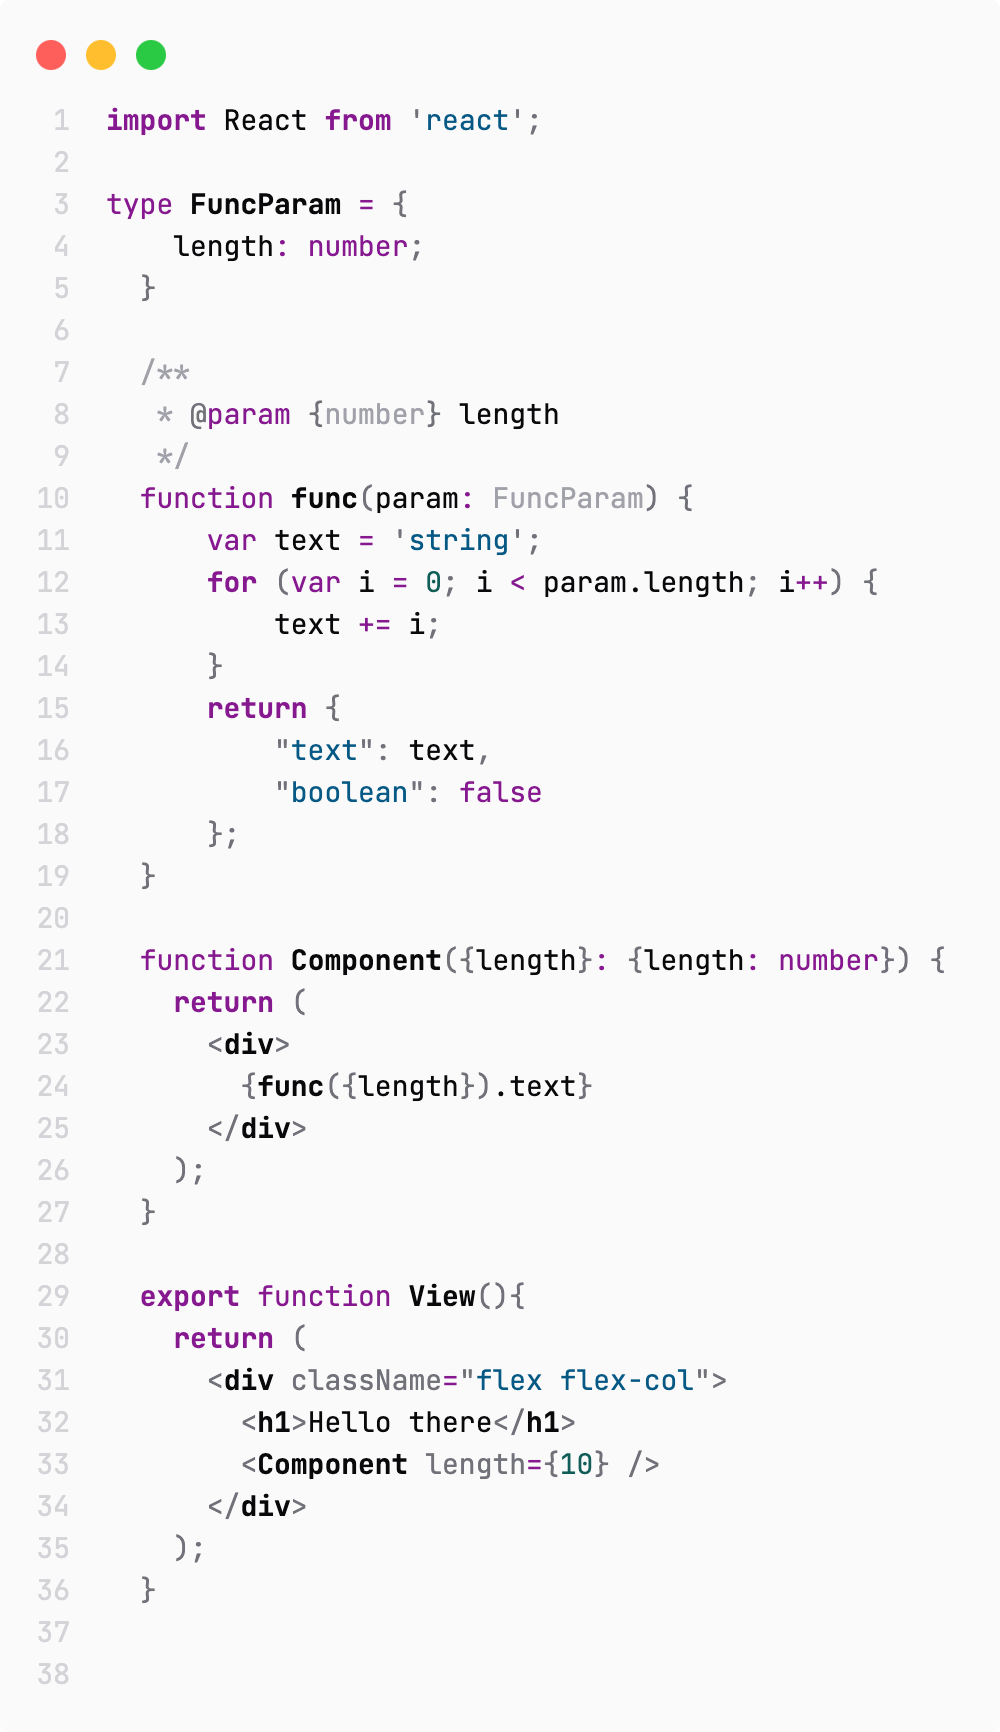
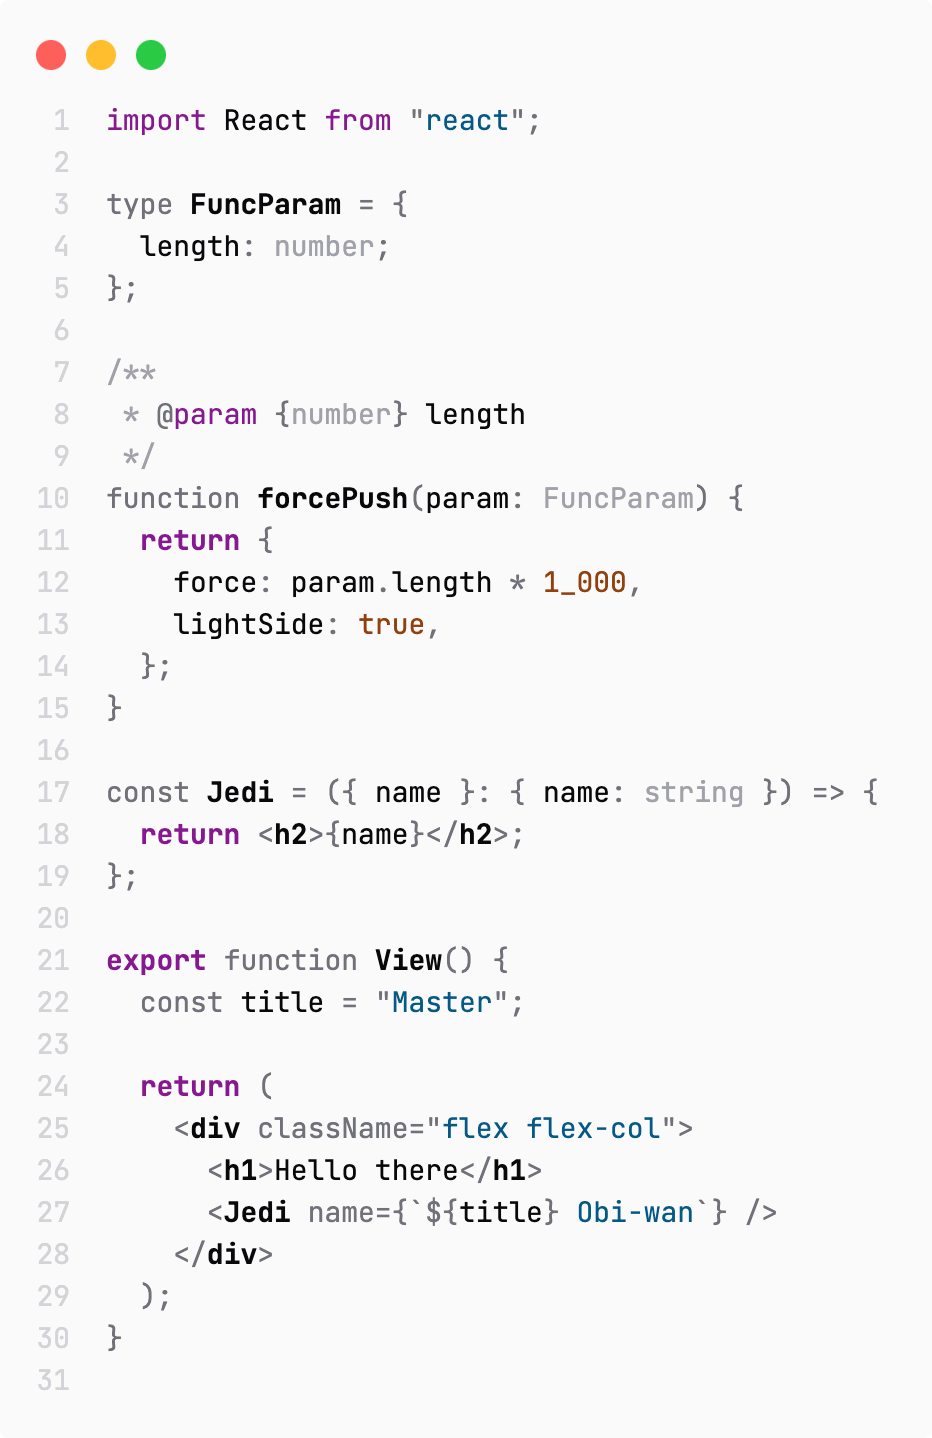
👌 IMPROVE: rework colors

diff --git a/samples/react.tsx b/samples/react.tsx
@@ -1,36 +1,30 @@
-import React from 'react';
+import React from "react";
 
 type FuncParam = {
-	length: number;
-  }
-  
-  /**
-   * @param {number} length
-   */
-  function func(param: FuncParam) {
-	  var text = 'string';
-	  for (var i = 0; i < param.length; i++) {
-		  text += i;
-	  }
-	  return {
-		  "text": text,
-		  "boolean": false
-	  };
-  }
-  
-  function Component({length}: {length: number}) {
-	return (
-	  <div>
-		{func({length}).text}
-	  </div>
-	);
-  }
-  
-  export function View(){
-	return (
-	  <div className="flex flex-col">
-		<h1>Hello there</h1>
-		<Component length={10} />
-	  </div>
-	);
-  }
+  length: number;
+};
+
+/**
+ * @param {number} length
+ */
+function forcePush(param: FuncParam) {
+  return {
+    force: param.length * 1_000,
+    lightSide: true,
+  };
+}
+
+const Jedi = ({ name }: { name: string }) => {
+  return <h2>{name}</h2>;
+};
+
+export function View() {
+  const title = "Master";
+
+  return (
+    <div className="flex flex-col">
+      <h1>Hello there</h1>
+      <Jedi name={`${title} Obi-wan`} />
+    </div>
+  );
+}

diff --git a/CHANGELOG.md b/CHANGELOG.md
@@ -1,3 +1,9 @@
+## Version 1.0.8
+
+- Change scalars color
+- Change numbers and constant color
+- Change control flow color
+
 ## Version 1.0.7
 
 - Fix highlight background color
